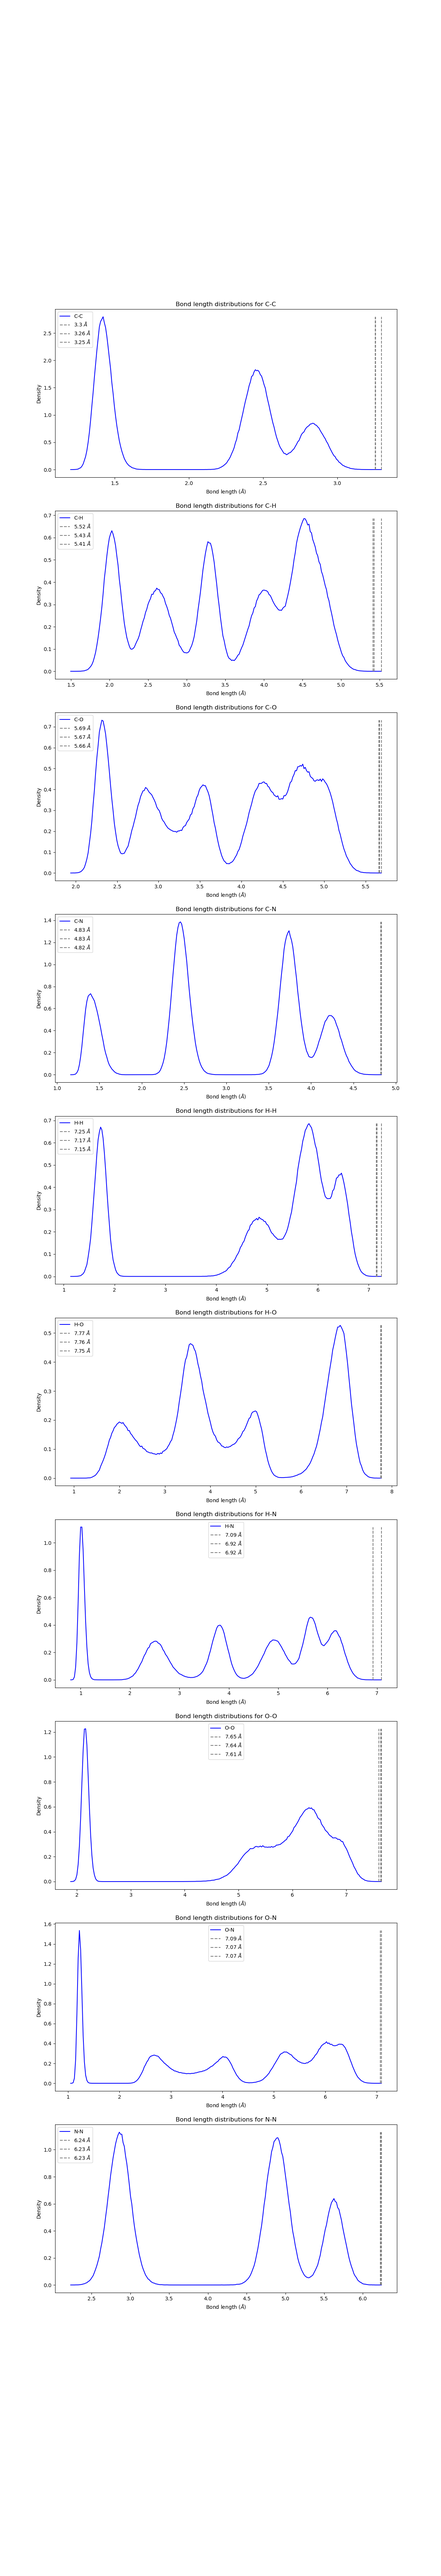
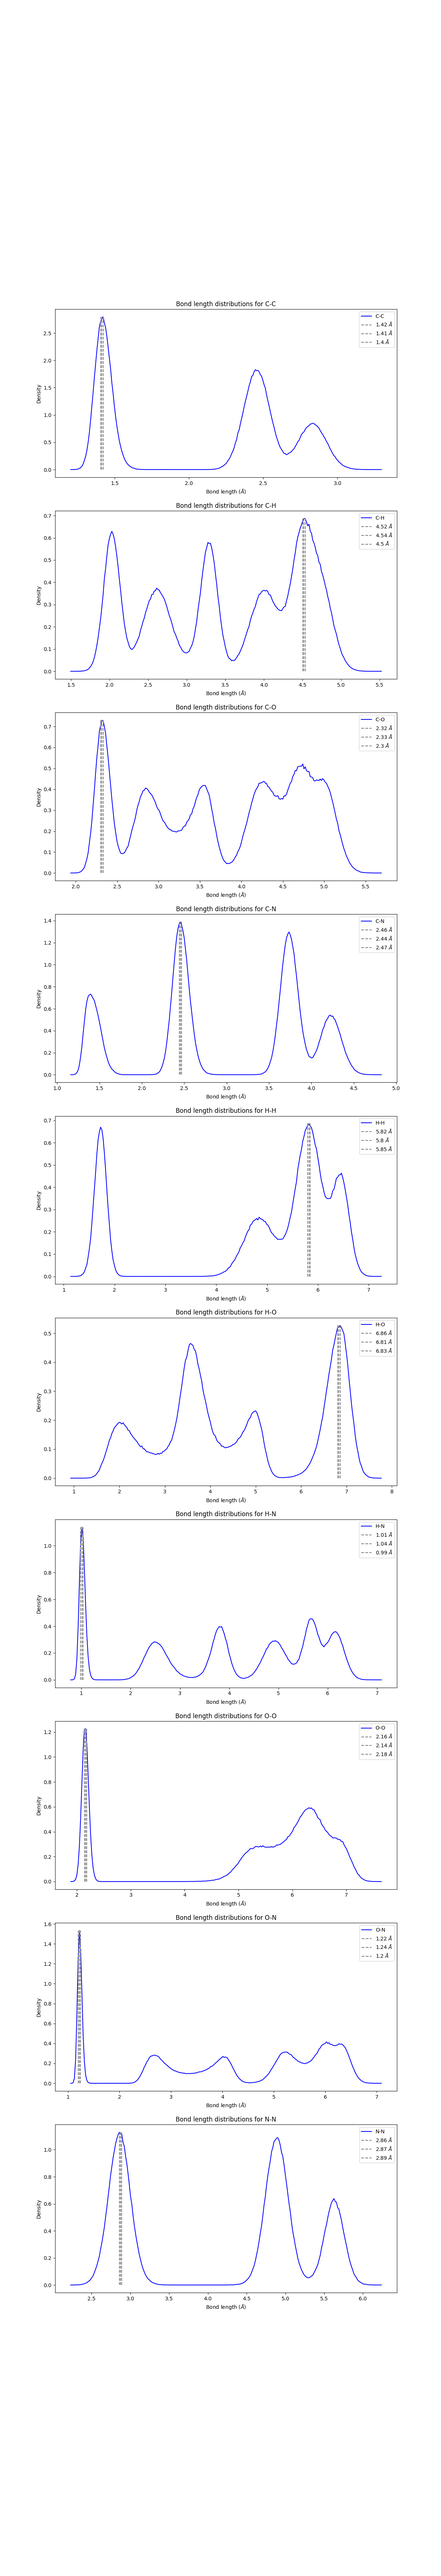
Bug fix for bond-length.py; obtained bond lengths statistics for single-molecule and three-molecules

diff --git a/WA-1/00-common/bond-length.py b/WA-1/00-common/bond-length.py
@@ -66,10 +66,10 @@ def plot_histogram(axis, lengths, elem_i, elem_j):
     x = np.linspace(lower, upper, 250)
     y = prefactor * np.sum(np.exp(scalefactor * np.square(x[:, np.newaxis] - samples[np.newaxis, :])), axis=-1)
     height = np.max(y)
-    peaks = np.argpartition(samples, [-1, -2, -3])[[-1, -2, -3]]
+    peaks = np.argpartition(y, [-1, -2, -3])[[-1, -2, -3]]
     axis.plot(x, y, 'b-', label=f'{elem_i}-{elem_j}')
     for i in range(3):
-        peak = samples[peaks[i]]
+        peak = x[peaks[i]]
         axis.plot([peak, peak], [0, height], '--', color='gray', label=f'{round(peak, 2)} ' + r'$\AA$')
     axis.set_title(f'Bond length distributions for {elem_i}-{elem_j}')
     axis.set_xlabel(r'Bond length ($\AA$)')
